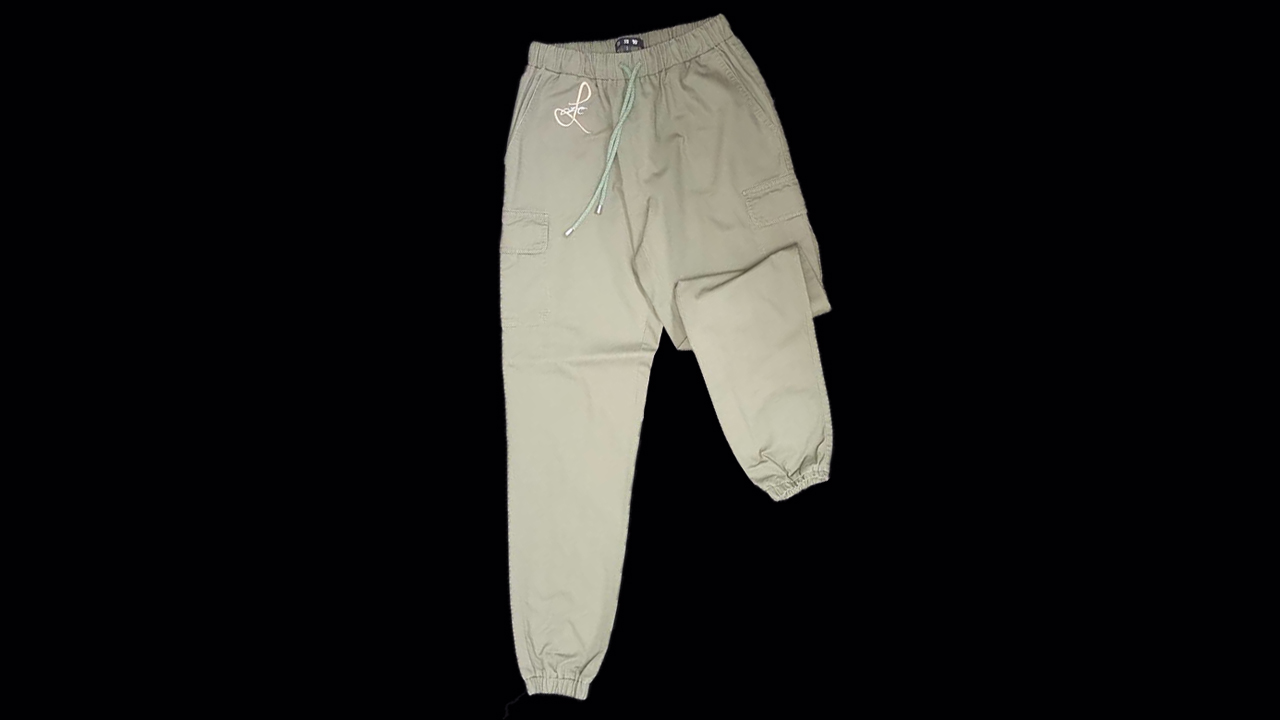
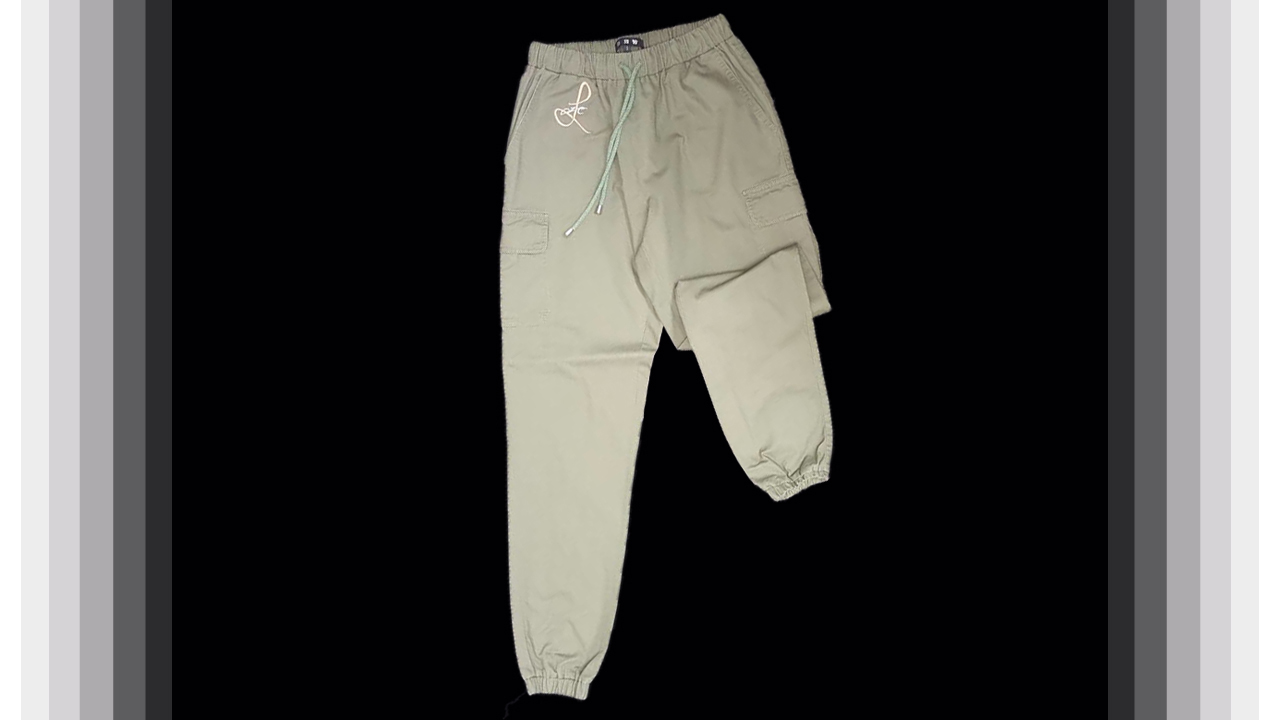
fixed images sizing

Changed region(s): [[0.8438, 0.0, 1.0, 1.0], [0.0, 0.0, 0.1562, 1.0]]

diff --git a/sass/main.scss b/sass/main.scss
@@ -28,6 +28,11 @@
     height: 250px;
 }
 
+.look-book-images {
+    width: 550px;
+    height: 250px;
+}
+
 .name {
     font-family: Riesling;
     display: flex;
@@ -82,4 +87,186 @@
 
 .outfit {
     width: 350px;
+}
+
+// login page
+
+//variables
+$bg-color: #f9ccb4;
+$border-color: #bfbfbf;
+$btn-color: #d05715;
+//font
+@import url(https://fonts.googleapis.com/css?family=Montserrat:700);
+@import url(https://fonts.googleapis.com/css?family=Source+Sans+Pro:400,300,600);
+//mixins
+@mixin border-radius($radius) {
+  border-radius: $radius;
+  -webkit-border-radius: $radius;
+  -moz-border-radius: $radius;
+  -ms-border-radius: $radius;
+  -o-border-radius: $radius;
+}
+
+@mixin transition($transition) {
+  -moz-transition: $transition;
+  -o-transition: $transition;
+  -webkit-transition: $transition;
+  transition: $transition;
+}
+
+@mixin placeholder {
+  ::-webkit-input-placeholder {
+    @content
+  }
+  :-moz-placeholder {
+    @content
+  }
+  ::-moz-placeholder {
+    @content
+  }
+  :-ms-input-placeholder {
+    @content
+  }
+}
+
+body {
+  background-color: $bg-color;
+  font-size: 18px;
+}
+
+.container {
+  width: 1000px;
+  height: 600px;
+  margin: 100px auto;
+  @include border-radius(4px);
+  background-color: #fff;
+  -webkit-box-shadow: 0 10px 100px rgba(0, 0, 0, .3);
+  -moz-box-shadow: 0 10px 100px rgba(0, 0, 0, .3);
+  box-shadow: 0 10px 100px rgba(0, 0, 0, .3);
+  .login-form {
+    padding: 100px 40px;
+    width: calc(100% - 710px);
+    display: inline-block;
+    float: left;
+    position: relative;
+    h1 {
+      font-family: 'Montserrat', sans-serif;
+      font-size: 1.667em;
+      font-weight: 700;
+      text-transform: uppercase;
+      margin: 0 0 40px 0;
+    }
+    input {
+      display: block;
+      border: none;
+      width: 100%;
+      padding: 10px 0;
+      border-bottom: solid 1px $border-color;
+      font-family: 'Source Sans Pro', sans-serif;
+      @include transition (all 0.3s cubic-bezier(0.64, 0.09, 0.08, 1));
+      color: #0e6252;
+      margin-bottom: 45px;
+      font-size: 1em;
+      &:focus,
+      &:valid {
+        box-shadow: none;
+        outline: none;
+        background-position: 0 0;
+      }
+      &:focus {
+        border-color: $btn-color;
+      }
+      &::-webkit-input-placeholder {
+        -webkit-transition: all 0.3s ease-in-out;
+        transition: all 0.3s ease-in-out;
+      }
+      &:focus {
+        &::-webkit-input-placeholder {
+          color: $btn-color;
+          font-size: 0.778em;
+          -webkit-transform: translateY(-20px);
+          transform: translateY(-20px);
+          visibility: visible;
+        }
+      }
+    }
+    .login-btn {
+      background-color: $btn-color;
+      border: 0;
+      color: #fff;
+      padding: 15px 55px;
+      font-family: 'Montserrat', sans-serif;
+      font-size: 1em;
+      cursor: pointer;
+      text-transform: uppercase;
+      @include border-radius(30px);
+      &:hover {}
+      &:focus {
+        outline: none;
+      }
+    }
+    .login-btn[disabled] {
+      pointer-events: none;
+      cursor: not-allowed;
+      opacity: .65;
+    }
+    ul {
+      margin: 0;
+      padding: 0 40px;
+      position: absolute;
+      bottom: 0;
+      right: 0;
+      left: 0;
+      li {
+        list-style-type: none;
+        display: inline-block;
+        &:last-child {
+          float: right;
+        }
+        a {
+          text-decoration: none;
+          color: $btn-color;
+          font-family: 'Source Sans Pro', sans-serif;
+        }
+      }
+    }
+  }
+  .img-content {
+    width: calc(100% - 370px);
+    height: 100px;
+    display: inline-block;
+    background-image: url("/images/Login-page.jpg");
+    background-repeat: no-repeat;
+    background-size: contain;
+    background-position: center;
+    h1 {
+      text-align: center;
+      color: #fff;
+      text-transform: uppercase;
+      font-family: 'Montserrat', sans-serif;
+      margin-top: 95px;
+    }
+    a {
+      float: right;
+      margin: 30px 30px 0 0;
+      font-family: 'Source Sans Pro', sans-serif;
+      font-weight: 600;
+    }
+    p {
+      margin: 0;
+      color: #fff;
+      font-family: 'Source Sans Pro', sans-serif;
+      font-weight: 300;
+      text-align: center;
+      font-size: 2.222em;
+      margin-top: 120px;
+      padding: 0 100px
+    }
+  }
+  .error-text{
+    margin:0;
+    color: tomato;
+    font-family: 'Montserrat', sans-serif;
+    margin-top:-20px;
+  }
 }

diff --git a/partials/home.html b/partials/home.html
@@ -1,49 +1,48 @@
-<h3 class="list-inline center-block text-center">Collection Plate</h3> 
+<h3 class="list-inline center-block text-center">Collection Plate</h3>
 <input class="list-inline center-block text-center input-mg" type="text" name="" placeholder="Search..." ng-model="searchText">
-
-
-
 <h2 class="list-inline center-block text-center direction">*Select a shirt and a pair of pants to create your look*</h2>
-
 <div>
     <div ng-if="!user.uid" col-xs-4>
-       <p>Shirt Selected: {{outfit.shirt}}</p>
+        <p>Shirt Selected: {{outfit.shirt}}</p>
     </div>
     <div ng-if="!user.uid" col-xs-4>
         Pants Selected: {{outfit.pants}}
     </div>
 </div>
-
-
-<div ng-repeat="shirt in shirts | filter: searchText">
-    <!-- <div class="row"> -->
-        <div class="col-md-4">
-            <div class="thumbnail">
-                <a ng-href="{{shirt.image}}"><img ng-src="{{shirt.image}}" alt=""></a>
-                <div class="caption">
-                    <p>{{shirt.title}}</p>
-                 <button class="fa fa-plus-circle" aria-hidden="true" ng-click="addShirtLook(shirt)"></button>
+<div class="container-fluid">
+    <div class="container">
+        <div class="row">
+            <div ng-repeat="shirt in shirts | filter: searchText">
+                <div class="col-md-4 col-sm-6">
+                    <div class="thumbnail">
+                        <a ng-href="{{shirt.image}}"><img ng-src="{{shirt.image}}" alt=""></a>
+                        <div class="caption">
+                            <!-- <p>{{shirt.title}}</p> -->
+                            <button class="fa fa-plus-circle" aria-hidden="true" ng-click="addShirtLook(shirt)"></button>
+                        </div>
+                    </div>
                 </div>
             </div>
         </div>
-    <!-- </div> -->
-</div>
-<div ng-repeat="pant in pants | filter: searchText">
-    <!-- <div class="row"> -->
-        <div class="col-md-4">
-            <div class="thumbnail">
-                <a ng-href="{{pant.image}}"><img ng-src="{{pant.image}}" alt=""></a>
-                <div class="caption">
-                    <p>{{pant.title}}</p>
-                    <button class="fa fa-plus-circle" aria-hidden="true" ng-click="addPantLook(pant)"></button>
-                </div>
-            </div>
-        </div>
-    <!-- </div> -->
-</div>
-
-<div col-xs-4>
-        <button class="list-inline center-block text-center" ng-click="viewLook()">See Outfit</button>
     </div>
-
-
+</div>
+<div class="container-fluid">
+    <div class="container">
+        <div class="row">
+            <div ng-repeat="pant in pants | filter: searchText">
+                <div class="col-md-4 col-sm-6">
+                    <div class="thumbnail">
+                        <a ng-href="{{pant.image}}"><img ng-src="{{pant.image}}" alt=""></a>
+                        <div class="caption">
+                            <!-- <p>{{pant.title}}</p> -->
+                            <button class="fa fa-plus-circle" aria-hidden="true" ng-click="addPantLook(pant)"></button>
+                        </div>
+                    </div>
+                </div>
+            </div>
+        </div>
+    </div>
+</div>
+<div col-xs-4>
+    <button class="list-inline center-block text-center" ng-click="viewLook()">See Outfit</button>
+</div>

diff --git a/partials/look.html b/partials/look.html
@@ -1,4 +1,4 @@
-<div>
+<div class="list-inline center-block text-center">
     <h3>New Look</h3>
         <div class="form-group">
             <label>Name Your Look</label>
@@ -6,13 +6,13 @@
         </div>
 
 
-        <div col-xs-4>
-            <h3>Outfit</h3>
+        <div class="col-xs-4 col-xs-offset-4">
+            <h3 class="list-inline center-block text-cente">Outfit</h3>
                 <img class="outfit center" ng-src="{{shirt.image}}" alt="" ng-if="!editTitle">
                 
         </div>
 
-        <div col-xs-4>
+        <div class="col-xs-4 col-xs-offset-4">
            <img class="outfit center" ng-src="{{pant.image}}" alt="" ng-if="!editTitle">
 
         </div>   
@@ -20,7 +20,7 @@
         
 
 
-        <button class="btn btn-default" ng-if="!editTitle" ng-click="addNewStyle(title)">Create Collection</button>
+        <button class="btn btn-default col-xs-4 col-xs-offset-4" ng-if="!editTitle" ng-click="addNewStyle(title)">Create Collection</button>
 
         <button class="btn btn-danger" ng-if="editTitle" ng-click="editLook(userLook)">Edit Name</button>
 </div>

diff --git a/partials/lookbook.html b/partials/lookbook.html
@@ -1,15 +1,17 @@
-<h1>User Looks</h1>
+<h1 class="list-inline center-block text-center">User Looks</h1>
 
 <div>
-	<img class="ex-look" ng-src="/images/cover.jpg">
+	<img class="ex-look col-xs-4 col-xs-offset-4" ng-src="/images/cover.jpg">
 </div>
 
 
 <div ng-repeat="outfit in outfits">
-    <div col-xs-12>
+    <div class="col-xs-3">
         <p>Username: {{user.username}}</p>
         <p>Title: {{outfit.title}}</p>
-        <img class="img-rounded" ng-src="{{outfit.shirtimage}}" alt="">
-        <img class="img-rounded" ng-src="{{outfit.pantimage}}">
+        <div class="thumbnail">
+        <img ng-src="{{outfit.shirtimage}}" alt="">
+        <img ng-src="{{outfit.pantimage}}">
+        </div>
     </div>
 </div>

diff --git a/partials/style.html b/partials/style.html
@@ -1,10 +1,10 @@
-<h1>Outfit</h1>
+<h1 class="list-inline center-block text-center">Collections</h1>
 <div ng-repeat="look in looks">
-    <div col-xs-4>
+    <div class="list-inline center-block text-center"">
         <p>Username: {{user.username}}</p>
         <p>Title: {{look.title}}</p>
         <img class="outfit" ng-src="{{look.shirtimage}}" alt="">
-        <img class="outfit" ng-src="{{look.pantimage}}">
+        <img class="outfit" ng-src="{{look.pantimage}}"><br>
         <button class="btn btn-default list-inline center"><a ng-href="#!/style/edit/{{look.id}}">Edit</a></button>
         <button class="btn btn-danger list-inline center" ng-click="deleteLook(look.id)">Delete</button>
     </div>

diff --git a/index.html b/index.html
@@ -13,9 +13,9 @@
 <body ng-app="ThomasCollection">
 
 	<div ng-include="'partials/navbar.html'"></div>
-    <div class="row">
+    <div>
 <!--         <h1 class="list-inline center-block text-center">Thomas Collection</h1>
- -->        <div class="col-xs-8 col-xs-offset-2" ng-view>
+ -->        <div ng-view>
         
         </div>
     </div>

diff --git a/partials/auth.html b/partials/auth.html
@@ -2,7 +2,7 @@
 <div class="auth">
     <div class="container">
         <div class="row">
-            <div class="col-xs-4 col-xs-offset-2">
+            <div class="col-xs-4 col-xs-offset-4">
                 <div class="panel panel-default">
                     <div class="panel-heading">
                         <strong>Login</strong>
